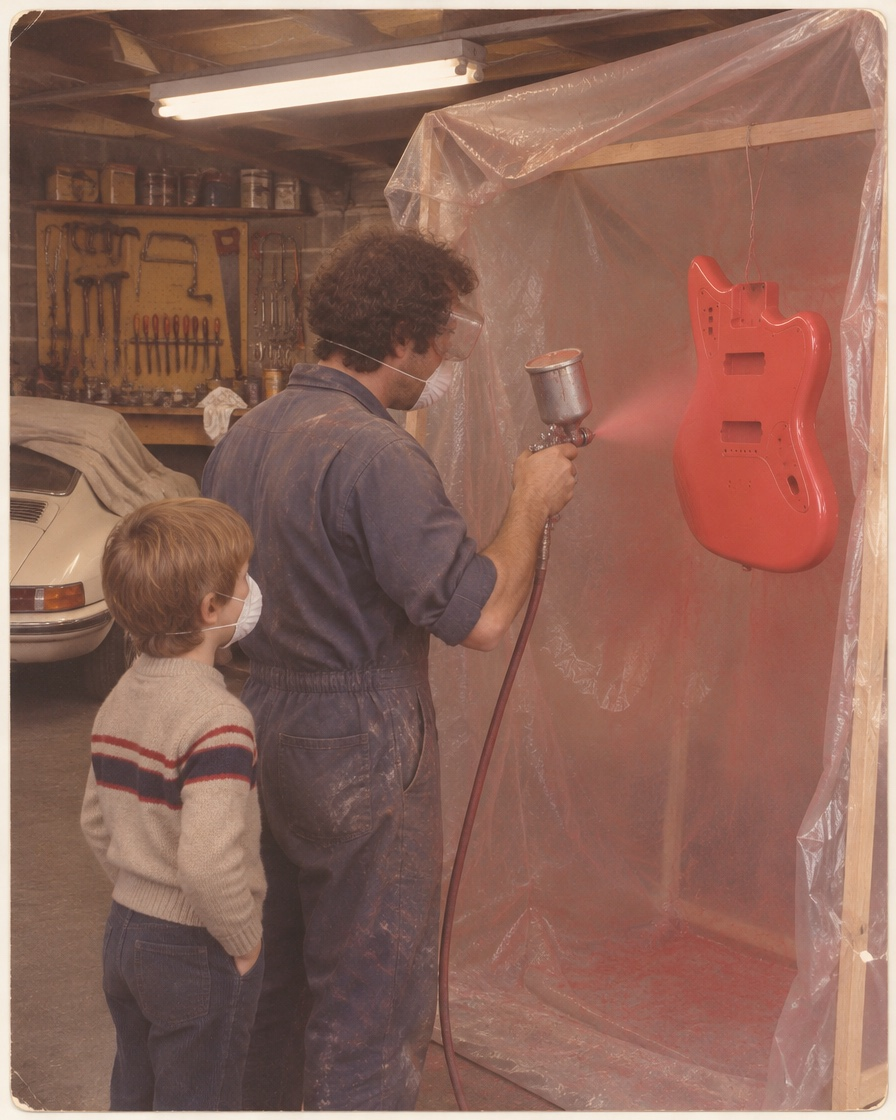
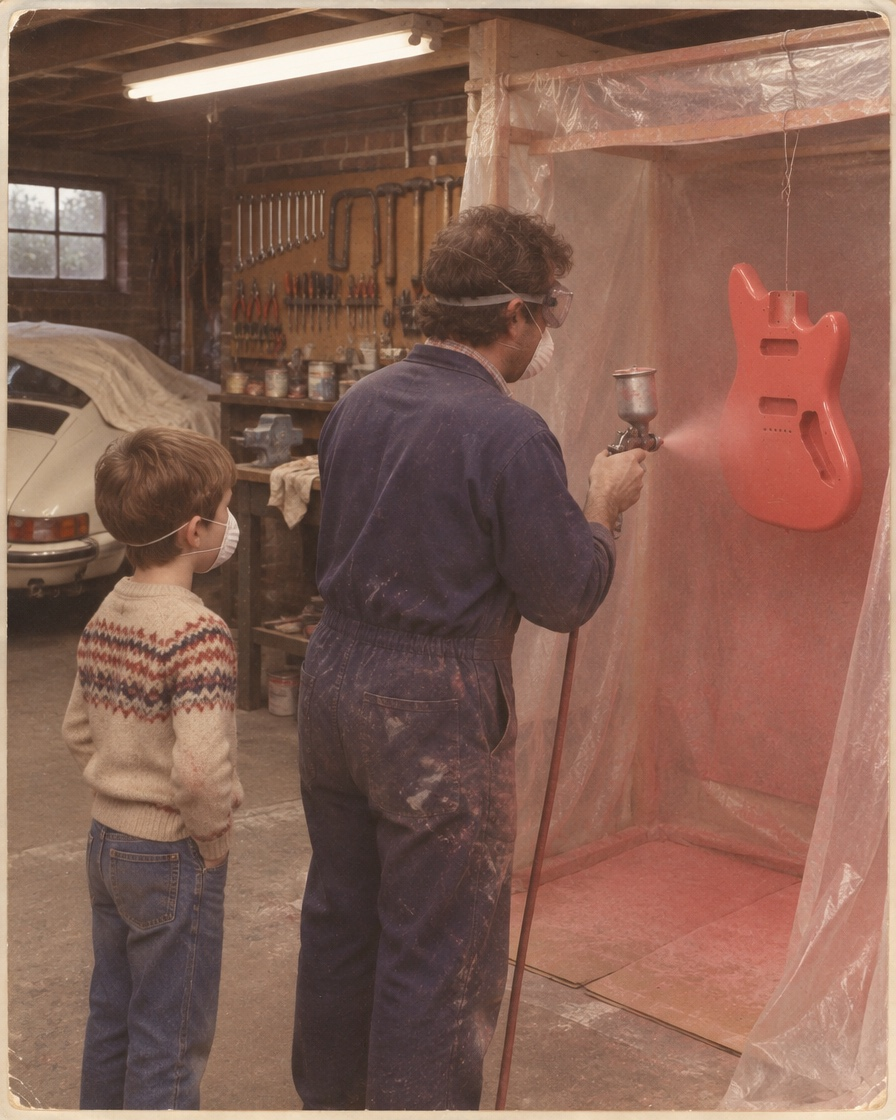
Founder journey post 1: the boy is seven in the garage images
Justin confirmed seven on 14 Nov, matching the caption. Regenerated all four.

diff --git a/content/brand-story/founder-journey/01-the-garage.md b/content/brand-story/founder-journey/01-the-garage.md
@@ -64,8 +64,9 @@ GPT Image 2.6, styled as faded 1980s film prints, and no full face is shown in
 either:
 
 - `01-porsche-a.jpg` (first pick) and `01-porsche-b.jpg`: the white 1973 Carrera
-  RS with the blue script mid rebuild, his dad leaning into the engine bay, a
-  small boy on a crate handing up a spanner.
+  RS with the blue script and blue wheel centres mid rebuild, his dad leaning
+  into the engine bay, the boy beside him handing up a spanner. The boy is
+  seven, matching the caption (Justin confirmed seven, 14 November).
 - `01-guitar-a.jpg` (first pick, the pinker red) and `01-guitar-b.jpg`: both
   in paper masks, his dad spraying a Jaguar style guitar body in the original
   pinky red. The colour came from Justin on 14 November; the context file only
@@ -76,9 +77,9 @@ Two rules for using them:
 1. **Say they are recreations.** Tick Instagram's AI label, and put a small
    plate on the image: "Recreated from memory with AI." Never let them read as
    a real family photo.
-2. **The car is close, not exact.** The engine lid in both is a standard 911
-   lid rather than the RS ducktail. A Porsche person will spot it. If that
-   matters, regenerate before posting.
+2. **The car is close, not exact.** The prompt asked for the RS ducktail, but
+   with the lid raised it still reads as a plain 911 engine lid. A Porsche
+   person may spot it.
 
 If an old real photo turns up, it wins and these go.
 
